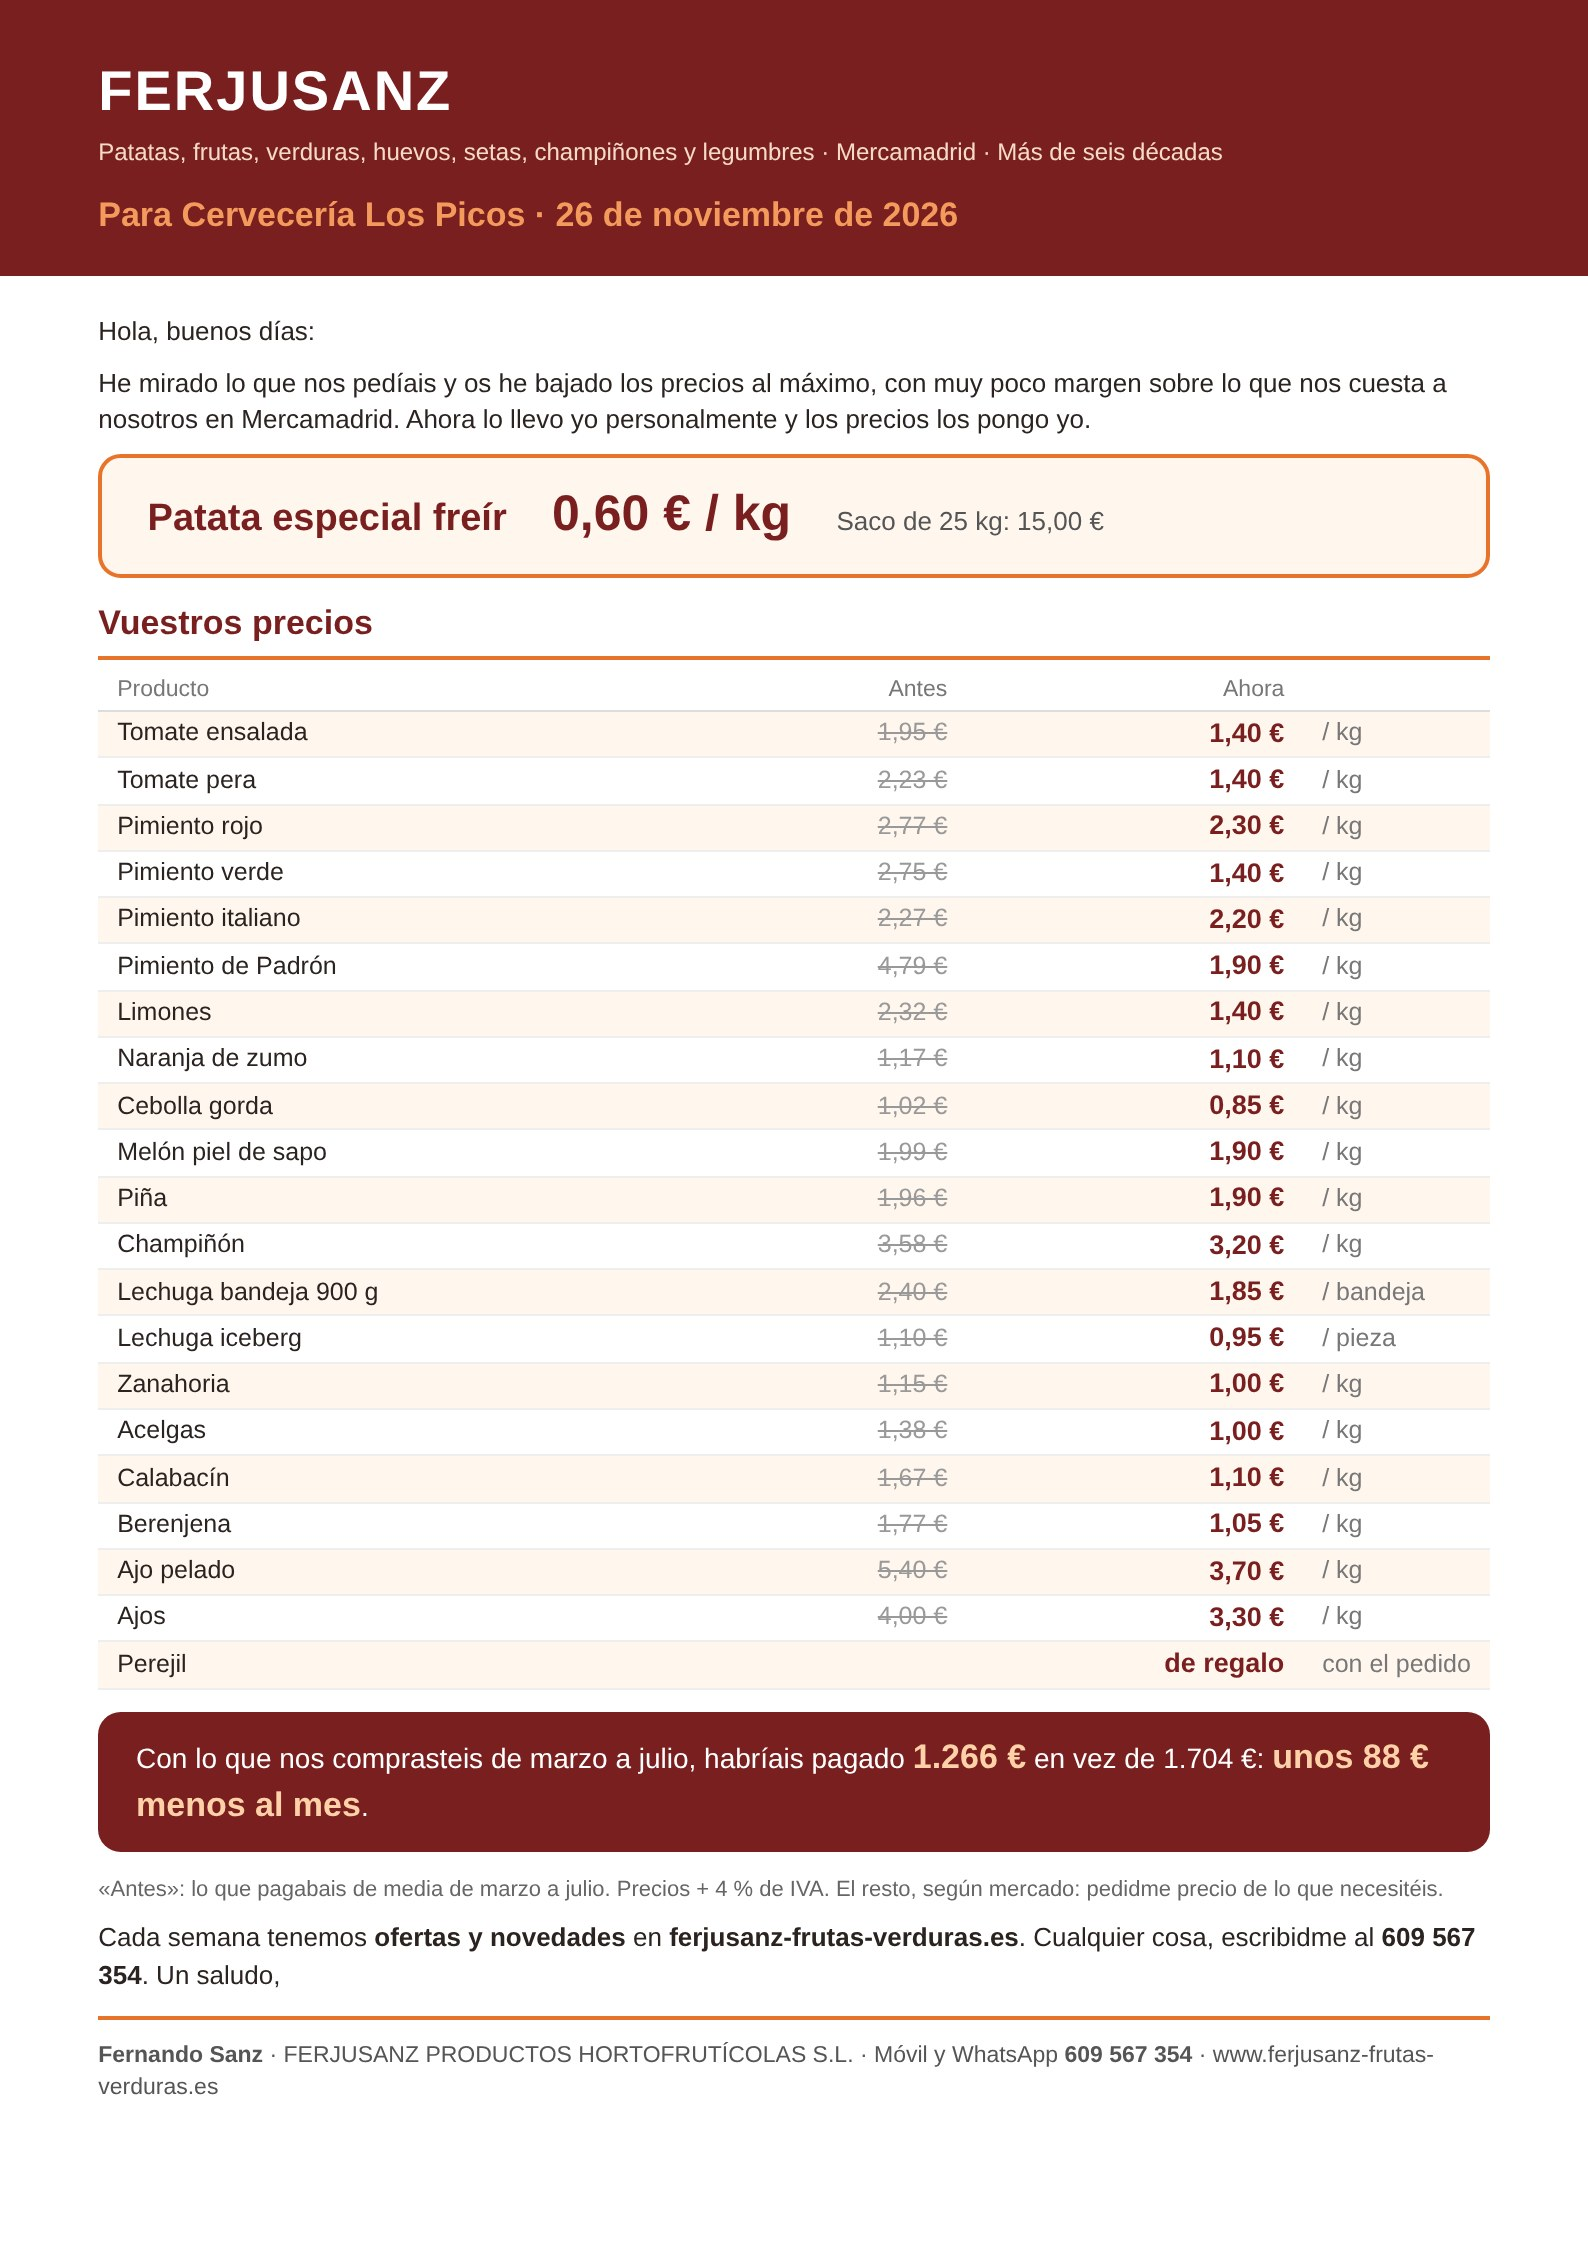
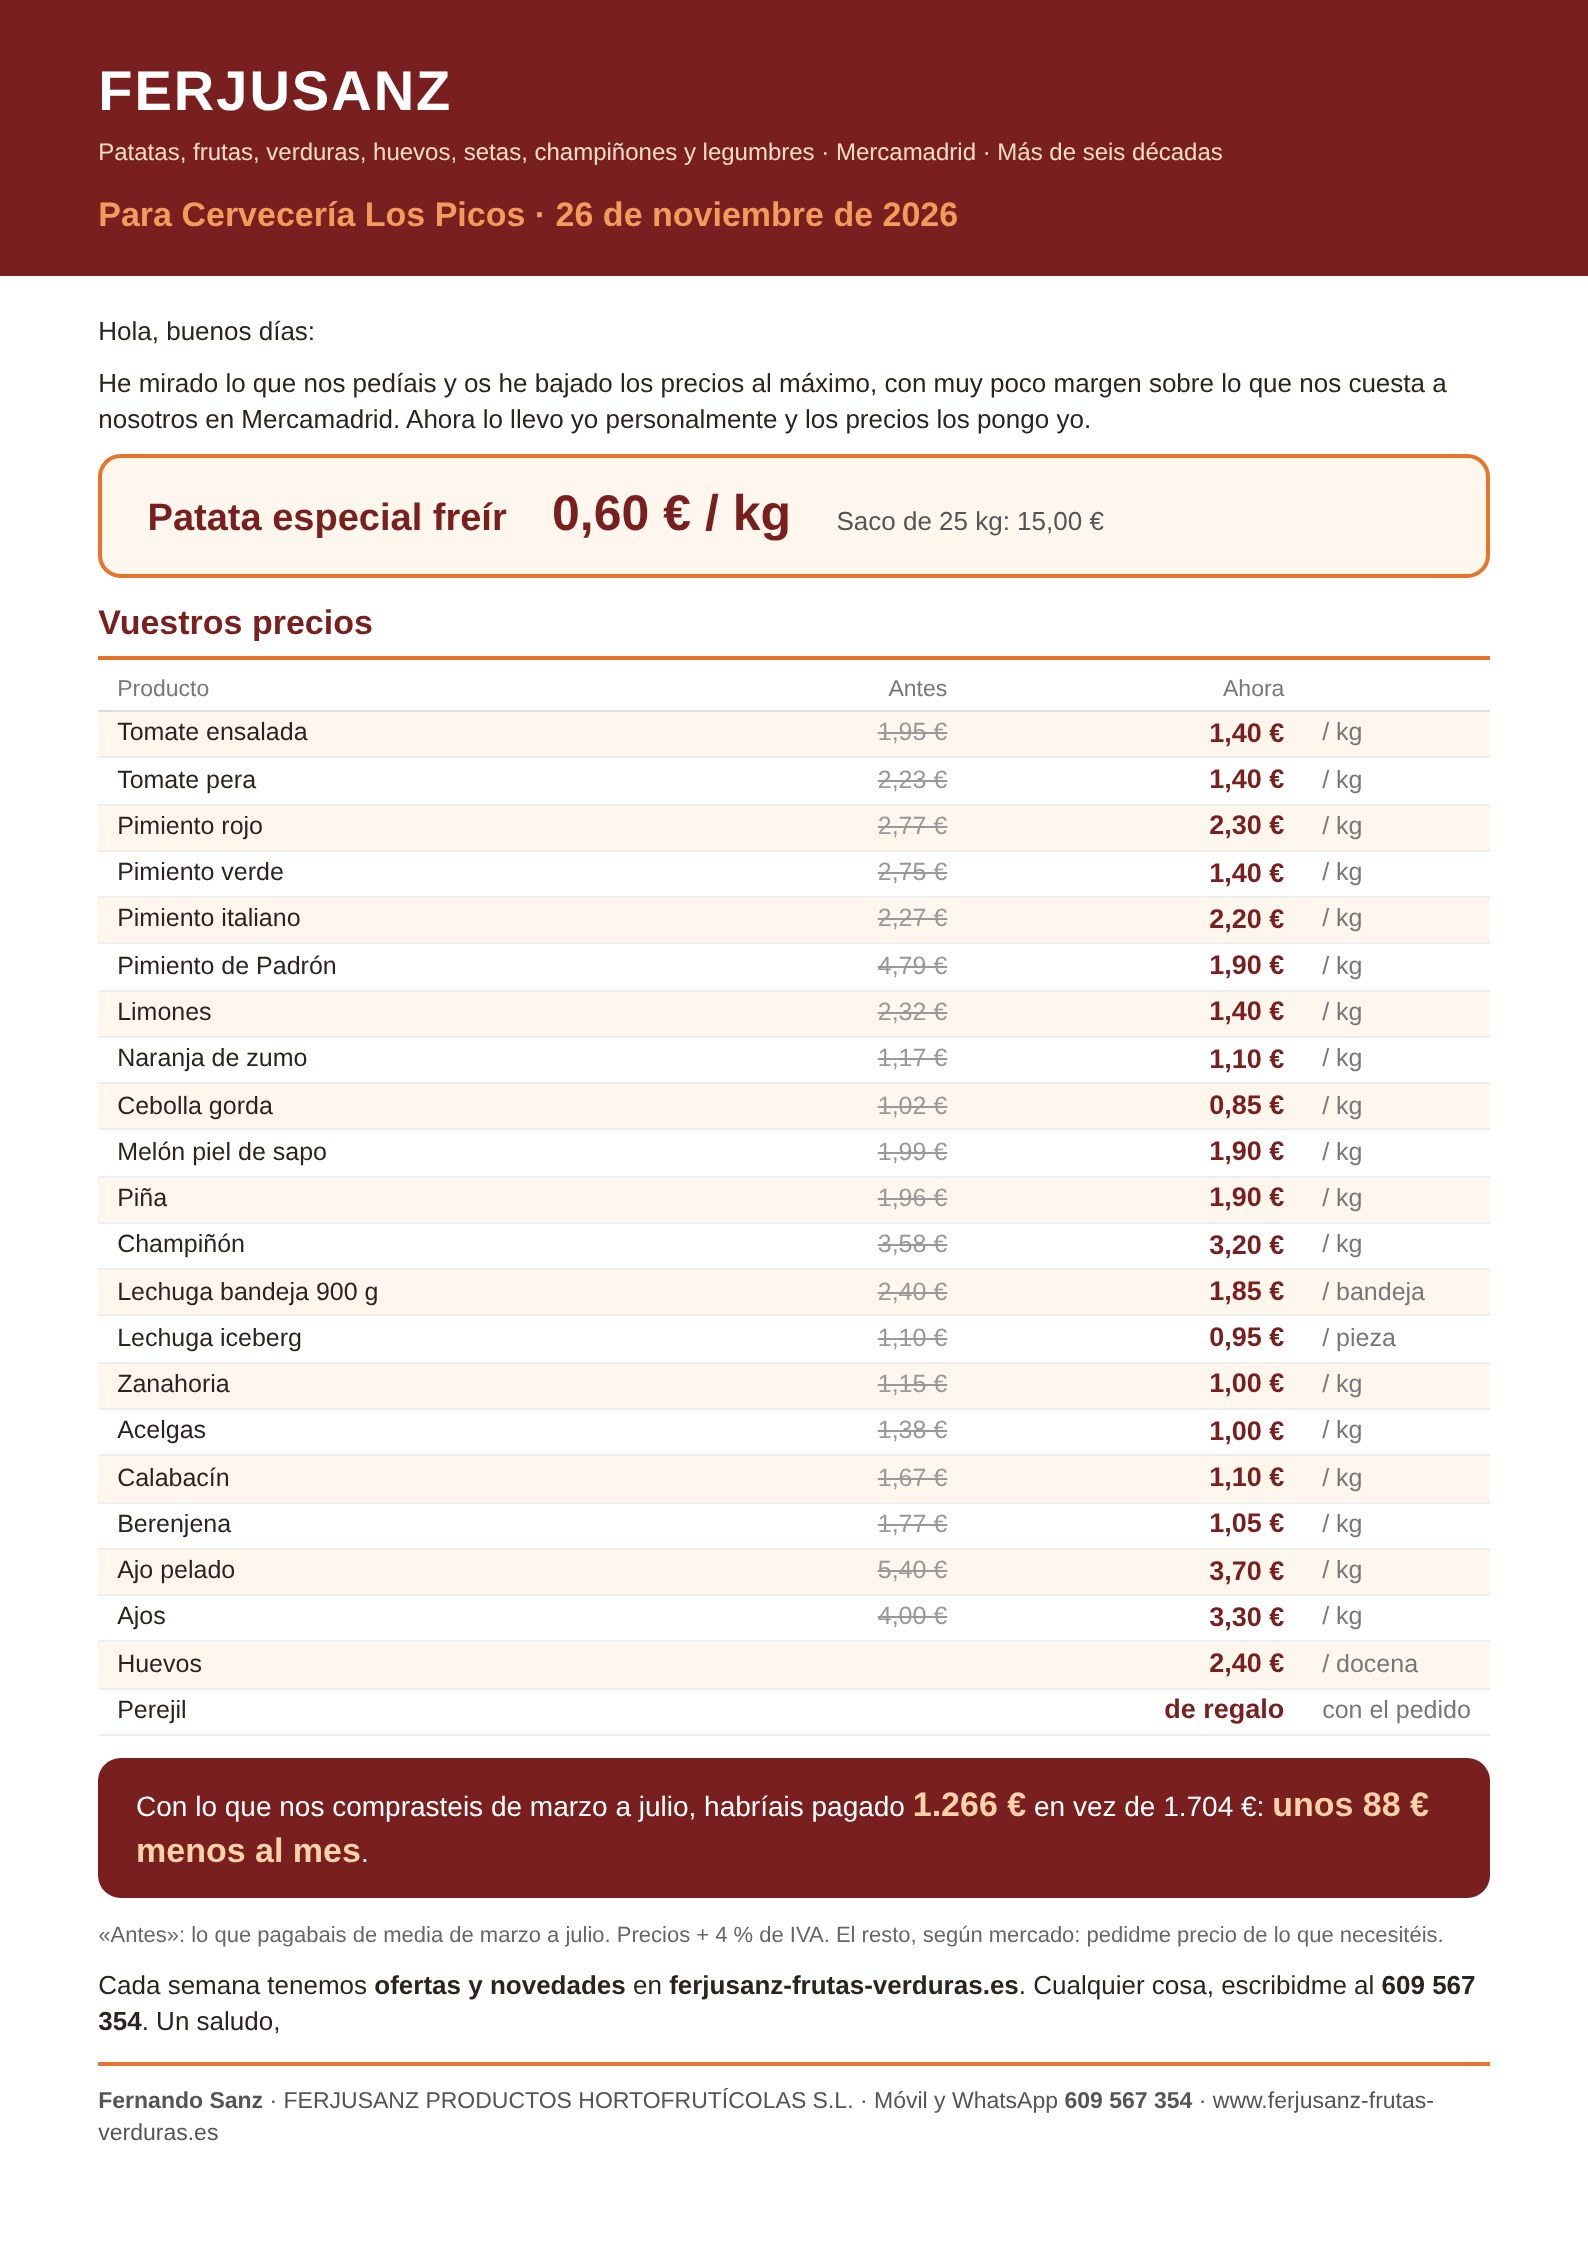
Los Picos: huevos y mensaje para WhatsApp
Claude-Session: https://claude.ai/code/session_01VB7xFQz2MeBfvtdE1FX3Hs

Changed region(s): [[0.0617, 0.7168, 0.9565, 0.9662]]

diff --git a/docs/HISTORIAL.md b/docs/HISTORIAL.md
@@ -1,7 +1,7 @@
 # Historial de FERJUSANZ
 _Lo más nuevo arriba. El detalle de cada cambio está en el historial de GitLab (`git log`). Aquí van los cambios importantes, las decisiones y los errores corregidos._
 
-- **🍺 Lista de precios para Cervecería Los Picos (PICOS; sin app ni SQL)** (26/11/2026, Tito: «precios baratos con unos 40 céntimos de margen en tomates, verdura y tal… en función de lo que gastaba… la patata no nos la compra… 0,60 el kilo… patata especial freír»). `docs/hosteleria/Ferjusanz-precios-Los-Picos.pdf` y `.jpg` (1 hoja, `docs/hosteleria/picos.mjs`). En Golden: 11 facturas de marzo a julio de 2026 (2.249,92 € de base; tomate Rambo, sandía, pimientos, limón, melón, naranja…). Precio = compra del 24/11 + 0,40 € (tomate ensalada y pera 1,40 · pimiento rojo 2,30 · verde 1,40 · italiano 2,20 · Padrón 1,90 · limón 1,40 · naranja zumo 1,10 · cebolla gorda 0,85 · melón y piña 1,90 · champiñón 3,20 · lechuga bandeja 1,85 · iceberg 0,95 pieza · zanahoria y acelgas 1,00 · calabacín 1,10 · berenjena 1,05 · ajo pelado 3,70 · ajos 3,30); patata especial freír 0,60 (saco 15,00 €). La hoja enseña «Antes» (su media mar-jul) y «Ahora»: con lo que compró habría pagado 1.266 € en vez de 1.704 €, ~88 €/mes menos. Fuera: aguacate, pepino y puerro (con +0,40 saldrían más caros que antes), sandía (no es temporada) y sueltos (piparras, papayón, brevas, picotas). Solo el móvil 609 567 354.
+- **🍺 Lista de precios para Cervecería Los Picos (PICOS; sin app ni SQL)** (26/11/2026, Tito: «precios baratos con unos 40 céntimos de margen en tomates, verdura y tal… en función de lo que gastaba… la patata no nos la compra… 0,60 el kilo… patata especial freír»). `docs/hosteleria/Ferjusanz-precios-Los-Picos.pdf` y `.jpg` (1 hoja, `docs/hosteleria/picos.mjs`). En Golden: 11 facturas de marzo a julio de 2026 (2.249,92 € de base; tomate Rambo, sandía, pimientos, limón, melón, naranja…). Precio = compra del 24/11 + 0,40 € (tomate ensalada y pera 1,40 · pimiento rojo 2,30 · verde 1,40 · italiano 2,20 · Padrón 1,90 · limón 1,40 · naranja zumo 1,10 · cebolla gorda 0,85 · melón y piña 1,90 · champiñón 3,20 · lechuga bandeja 1,85 · iceberg 0,95 pieza · zanahoria y acelgas 1,00 · calabacín 1,10 · berenjena 1,05 · ajo pelado 3,70 · ajos 3,30); patata especial freír 0,60 (saco 15,00 €). La hoja enseña «Antes» (su media mar-jul) y «Ahora»: con lo que compró habría pagado 1.266 € en vez de 1.704 €, ~88 €/mes menos. Fuera: aguacate, pepino y puerro (con +0,40 saldrían más caros que antes), sandía (no es temporada) y sueltos (piparras, papayón, brevas, picotas). Solo el móvil 609 567 354. Después, Tito: «y los huevos»: huevos 2,40 €/docena (Patatas del Olmo 2,00 + 0,40) y mensaje para WhatsApp en `docs/hosteleria/mensaje-Los-Picos.txt`.
 - **📈 Análisis: fiabilidad, gastos, ahorro y almacén en Mercamadrid (sin app ni SQL)** (26/11/2026, Tito: «cómo de fiables somos, dónde se va la mayor parte del gasto, qué se puede hacer… si es viable coger un almacén en Mercamadrid… búscame precios… manéjamelo»). Con la cuenta de resultados (ene–oct: margen 297.842 €, personal 92.757 €, gastos 61.918 €, quedan 143.167 €), el banco 4501 (entradas 542.703 € y salidas 545.134 € de marzo a noviembre: la cuenta va justa, con 17.000 € a socios fuera de nómina y 12.456 € de deuda de 2025 a Lubrimatic) y Golden (pendiente de cobro 34.687 €, de pago a proveedores 69.332 €). Naves en Mercamadrid, precios de anuncio 2025-2026: 4,5–8 €/m²/mes (nave frigorífica de 1.064 m² a 7.000 €/mes; logística de 2.600 m² a 18.200 €/mes). Patata: 262 t de agria vendidas en 10 meses (~26 t/mes), compras de patata 174.381 €. Plan de ahorro en `docs/PENDIENTES.md` («💶 PLAN DE AHORRO E INVERSIÓN»).
 - **💬 Respuestas del 26/11 (revisiones de las 9:13 y las 16:13)**: Valdeluz (Lola Guerra, Atención al Cliente: «tenemos cubierto ese servicio» → contestado, reintentar en marzo 2027), Bar La Gloria (respuesta automática: contactar por WhatsApp al 676 166 679 → Tito), CEIP San Isidro Aranjuez (Sandra, comedor: lo pasa a sus superiores → pedido su contacto, llamar 01/12). Rebotes apuntados: Kilo y Cuarto, El Viejo Fogón, Mesón Gallego, Couzapín, Marisquería Norte Sur, Restaurante Independencia, Santa María del Camino, Hispano Alemán y British Council (bloqueado).
 - **💶 Excel de la cuenta de resultados: hoja «Nos deben (todo)» (sin app ni SQL)** (26/11/2026, Tito: «¿El Águila solo debe eso?»). La hoja «Nos deben (más de 2 meses)» solo tenía lo viejo (10.732 €); la nueva tiene todo lo pendiente en Golden por cliente (34.687 €), separando lo de hace más de 2 meses de lo del último mes y descontando las notas «a cuenta». Águila Rock: 696,04 € (22,24 € de septiembre que quedan tras los «a cuenta» y 673,80 € de octubre).
